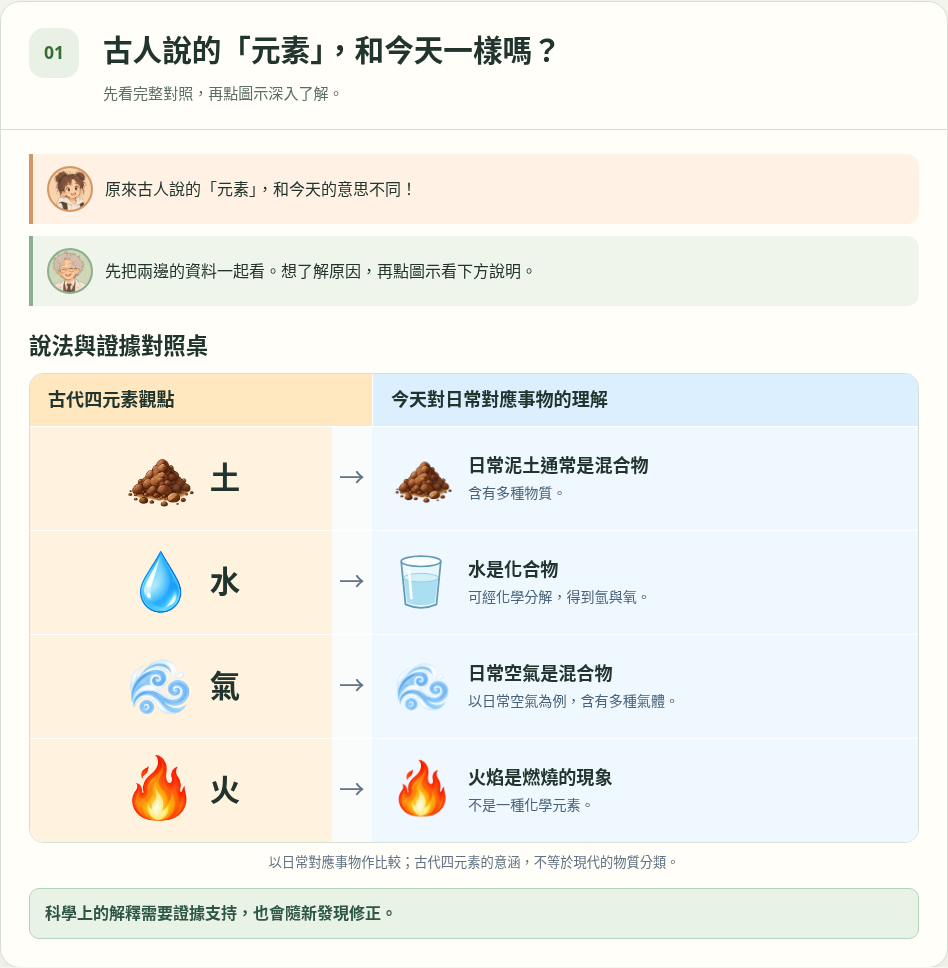
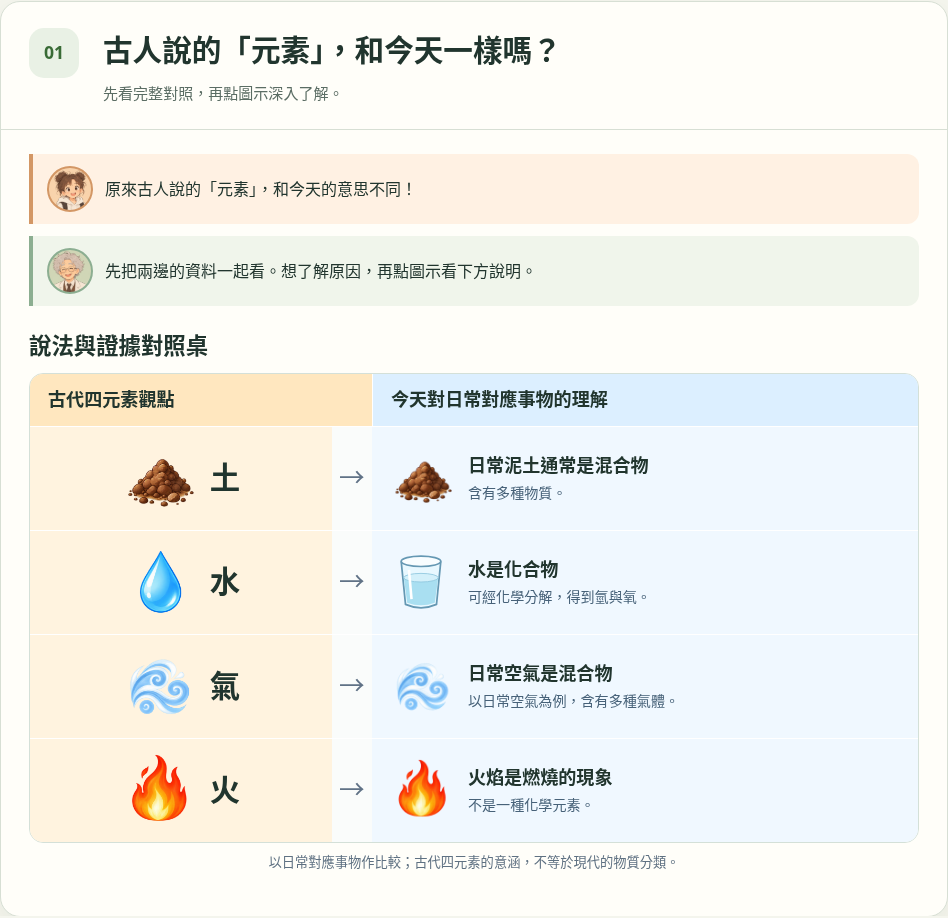
Remove the extra scientific-explanation takeaway block

diff --git a/units/6/parts/6.1/assets/classical-comparison.css b/units/6/parts/6.1/assets/classical-comparison.css
@@ -3,7 +3,7 @@
 .comparison-table{border:1px solid #d4e0d8;border-radius:14px;overflow:hidden}.comparison-head{display:grid;grid-template-columns:calc(34% + 40px) minmax(0,1fr);font-size:1.13rem;line-height:1.5}.comparison-head strong{padding:12px 18px;background:#ffe7bf}.comparison-head strong+strong{background:#dcefff;border-left:1px solid #fff}
 .comparison-row{display:grid;grid-template-columns:34% 40px minmax(0,1fr);align-items:stretch;width:100%;padding:0;border:0;border-top:1px solid #fff;background:#fffef9;color:var(--ink);text-align:left;min-height:104px;border-radius:0;position:relative}.comparison-row:focus-visible{outline-offset:-4px;z-index:1}.comparison-row:hover{box-shadow:inset 0 0 0 2px #b9d5bd}.ancient-cell,.modern-cell{display:flex;align-items:center;gap:16px;min-width:0;padding:10px 18px}.ancient-cell{background:#fff3df;justify-content:center}.ancient-cell>strong{font-size:1.9rem;min-width:1em}.modern-cell{background:#f0f8ff}.modern-cell>span:last-child{min-width:0}.modern-cell strong{display:block;font-size:1.13rem;line-height:1.5}.modern-cell small{display:block;font-size:.88rem;color:#476279;margin-top:3px;line-height:1.6}.compare-arrow{display:grid;place-items:center;font-size:1.6rem;color:#607286;background:#fafcfb}.classical-icon{display:inline-block;flex:0 0 auto;width:72px;height:72px;background-image:url("classical-elements.png");background-repeat:no-repeat;background-size:400% auto;background-position:0 50%}.icon-earth{background-position:0 50%}.icon-water{background-position:33.333333% 50%}.icon-air{background-position:66.666667% 50%}.icon-fire{background-position:100% 50%}.modern-cell .classical-icon{width:62px;height:62px}.comparison-row.selected{box-shadow:inset 0 0 0 2px #19965b;border-radius:8px;z-index:1}.comparison-row.selected>*{background-color:#edf9e9}.comparison-caveat{font-size:.83rem;color:#5f7182;text-align:center;line-height:1.7;margin:8px 0 15px}
 .classical-detail{border:1px solid #b9d8cf;border-radius:12px;overflow:hidden;margin:16px 0}.detail-head{display:flex;align-items:center;justify-content:space-between;gap:12px;padding:9px 18px;background:#e0f0e2}.detail-head h4{font-size:1.25rem;margin:0}.detail-head button{background:transparent;border:0;color:#245747;font-size:.88rem;padding:4px 0 4px 12px}.detail-body{display:grid;grid-template-columns:minmax(0,1fr) minmax(0,1fr);gap:22px;padding:14px}.water-evidence{margin:0;padding:8px;background:linear-gradient(130deg,#edfaff,#f7fcfd);border-radius:10px;align-self:start}.water-evidence svg{display:block;width:100%;height:auto}.water-evidence text{font-family:inherit;font-size:21px;fill:#163e53;font-weight:750}.water-evidence .diagram-small{font-size:18px}.water-evidence .diagram-caption{font-size:15px}.water-evidence figcaption{font-size:.75rem;text-align:center;color:#5b7181;margin:6px 0 0}.detail-copy{align-self:center;min-width:0;padding:6px 6px 6px 0}.detail-copy>p{margin:6px 0 12px}.detail-copy>p:not(.caption){font-size:1.02rem}#classical-detail-conclusion{font-weight:750}.detail-copy .caption{font-size:.84rem}#boyle-toggle{display:block;padding:7px 0;border:0;background:none;color:#1462b0;text-align:left;font-size:.9rem;line-height:1.6}#boyle-explanation{font-size:.9rem;padding:12px;background:#f0f5eb;border-radius:9px}.detail-body:has(.water-evidence[hidden]){grid-template-columns:1fr}.detail-symbol{float:left;margin:0 20px 8px 0;width:90px;height:90px}
-.concept-history{margin-top:18px}.concept-history h3{font-size:1rem;margin:0 0 8px}.history-path{display:grid;grid-template-columns:minmax(0,1fr) 20px minmax(0,1fr) 20px minmax(0,1fr);gap:5px;align-items:center}.history-path>div{display:flex;gap:8px;align-items:center;border:1px solid #d0dcd5;border-radius:11px;padding:12px 10px;min-height:90px}.history-path>div>span{display:grid;place-items:center;width:33px;height:33px;border-radius:50%;background:#fce5cb;color:#8b5b24;font-weight:800;flex-shrink:0}.history-path>div:nth-of-type(2)>span{background:#e5f1df;color:#3a704c}.history-path>div:nth-of-type(3)>span{background:#dff1ff;color:#357a9e}.history-path p{margin:0;line-height:1.5}.history-path strong{display:block;font-size:.85rem}.history-path small{display:block;font-size:.75rem;color:#647a7a;margin-top:4px}.history-path>b{text-align:center;color:#697c7a}.concept-history>.caption{text-align:center;font-size:.76rem}.classical-takeaway{margin-top:15px;padding:10px 15px;border:1px solid #b4d4b7;border-radius:10px;background:#e8f3e5;font-weight:750;color:#2e5647}
+.concept-history{margin-top:18px}.concept-history h3{font-size:1rem;margin:0 0 8px}.history-path{display:grid;grid-template-columns:minmax(0,1fr) 20px minmax(0,1fr) 20px minmax(0,1fr);gap:5px;align-items:center}.history-path>div{display:flex;gap:8px;align-items:center;border:1px solid #d0dcd5;border-radius:11px;padding:12px 10px;min-height:90px}.history-path>div>span{display:grid;place-items:center;width:33px;height:33px;border-radius:50%;background:#fce5cb;color:#8b5b24;font-weight:800;flex-shrink:0}.history-path>div:nth-of-type(2)>span{background:#e5f1df;color:#3a704c}.history-path>div:nth-of-type(3)>span{background:#dff1ff;color:#357a9e}.history-path p{margin:0;line-height:1.5}.history-path strong{display:block;font-size:.85rem}.history-path small{display:block;font-size:.75rem;color:#647a7a;margin-top:4px}.history-path>b{text-align:center;color:#697c7a}.concept-history>.caption{text-align:center;font-size:.76rem}
 @media(max-width:1050px){.comparison-head{font-size:1rem;grid-template-columns:calc(32% + 30px) minmax(0,1fr)}.comparison-row{grid-template-columns:32% 30px minmax(0,1fr)}.ancient-cell,.modern-cell{gap:9px;padding:10px}.classical-icon{width:56px;height:56px}.modern-cell .classical-icon{width:45px;height:45px}.modern-cell strong{font-size:1rem}.modern-cell small{font-size:.82rem}.ancient-cell>strong{font-size:1.55rem}.detail-body{grid-template-columns:1fr}.detail-copy{padding:0 4px}.history-path{grid-template-columns:1fr}.history-path>b{transform:rotate(90deg)}.history-path>div{min-height:65px}.history-path strong{font-size:.9rem}.history-path small{font-size:.8rem}}
 @media(max-width:760px){.comparison-heading{margin-top:20px}.comparison-heading h3{font-size:1.22rem}.comparison-head{grid-template-columns:calc(28% + 24px) minmax(0,1fr);font-size:.85rem}.comparison-head strong{padding:10px}.comparison-row{grid-template-columns:28% 24px minmax(0,1fr);min-height:105px}.ancient-cell{flex-direction:column;gap:0;padding:8px 4px}.ancient-cell>strong{font-size:1.25rem}.classical-icon{width:48px;height:48px}.modern-cell{padding:10px 8px;gap:6px}.modern-cell .classical-icon{width:34px;height:34px}.modern-cell strong{font-size:.91rem}.modern-cell small{font-size:.79rem}.compare-arrow{font-size:1.1rem}.detail-head{padding:8px 12px}.detail-head h4{font-size:1.1rem}.detail-body{padding:10px;gap:10px}}
 @media(max-width:380px){.modern-cell .classical-icon{display:none}.comparison-head{font-size:.78rem}.modern-cell strong{font-size:.87rem}.modern-cell small{font-size:.77rem}.comparison-caveat{font-size:.76rem}}

diff --git a/units/6/parts/6.1/index.html b/units/6/parts/6.1/index.html
@@ -8,7 +8,7 @@
   <title>元素的探索｜探索物質的組成</title>
   <link rel="icon" href="data:,">
   <link rel="stylesheet" href="assets/elements.css?v=9635d239931e">
-  <link rel="stylesheet" href="assets/classical-comparison.css?v=800ea4a0b8ee">
+  <link rel="stylesheet" href="assets/classical-comparison.css?v=97689c1156f5">
   <link rel="stylesheet" href="assets/classical-inquiry.css?v=0b290a54e654">
   <script src="assets/classical-inquiry.js?v=c34fac247b43" defer></script>
   <script src="assets/elements.js?v=7895c93d6683" defer></script>
@@ -60,7 +60,6 @@
               <details id="inquiry-research"><summary>深入了解：研究過程與資料來源</summary><div class="inquiry-background"><h5 id="history-past-title"></h5><p id="history-past-text"></p><h5 id="history-evidence-title"></h5><p id="history-evidence-text"></p><p id="history-observation"></p><h5 id="history-modern-title"></h5><p id="history-modern-text"></p><p id="history-scope"></p><p>查核資料：<span id="history-sources"></span></p><div class="inquiry-study"><h5 id="inquiry-title"></h5><p id="inquiry-instruction"></p><div id="inquiry-diagram"></div><div class="inquiry-controls" id="inquiry-controls" role="group" aria-label="選擇觀察重點"></div><p id="inquiry-feedback" role="status"></p><p id="inquiry-diagram-note"></p></div></div></details>
             </div>
           </section>
-          <div class="classical-takeaway">科學上的解釋需要證據支持，也會隨新發現修正。</div>
         </div>
       </section>
 

diff --git a/docs/reviews/unit-6.1-picture-first/review.md b/docs/reviews/unit-6.1-picture-first/review.md
@@ -44,3 +44,9 @@
 依使用者指示移除對照桌標題旁「對照內容完整顯示；點選任一列，可在下方查看各自的觀念發展脈絡。」及其淡綠底框，清除專用樣式。對照桌標題、四列內容與互動保持。
 
 17 組既有瀏覽器子測試全部通過（含主項共 18 項），已目視移除後的桌面對照桌；[畫面](comparison-without-reminder.png)。
+
+## 移除第一區底部總結提示（2026-10-28）
+
+依使用者指示移除「科學上的解釋需要證據支持，也會隨新發現修正。」區塊與專用樣式，四列對照及各項圖片、關鍵發現與操作保持。
+
+17 組既有瀏覽器子測試全部通過（含主項共 18 項），已目視移除後的第一區，更新[對照桌畫面](comparison-without-reminder.png)。
